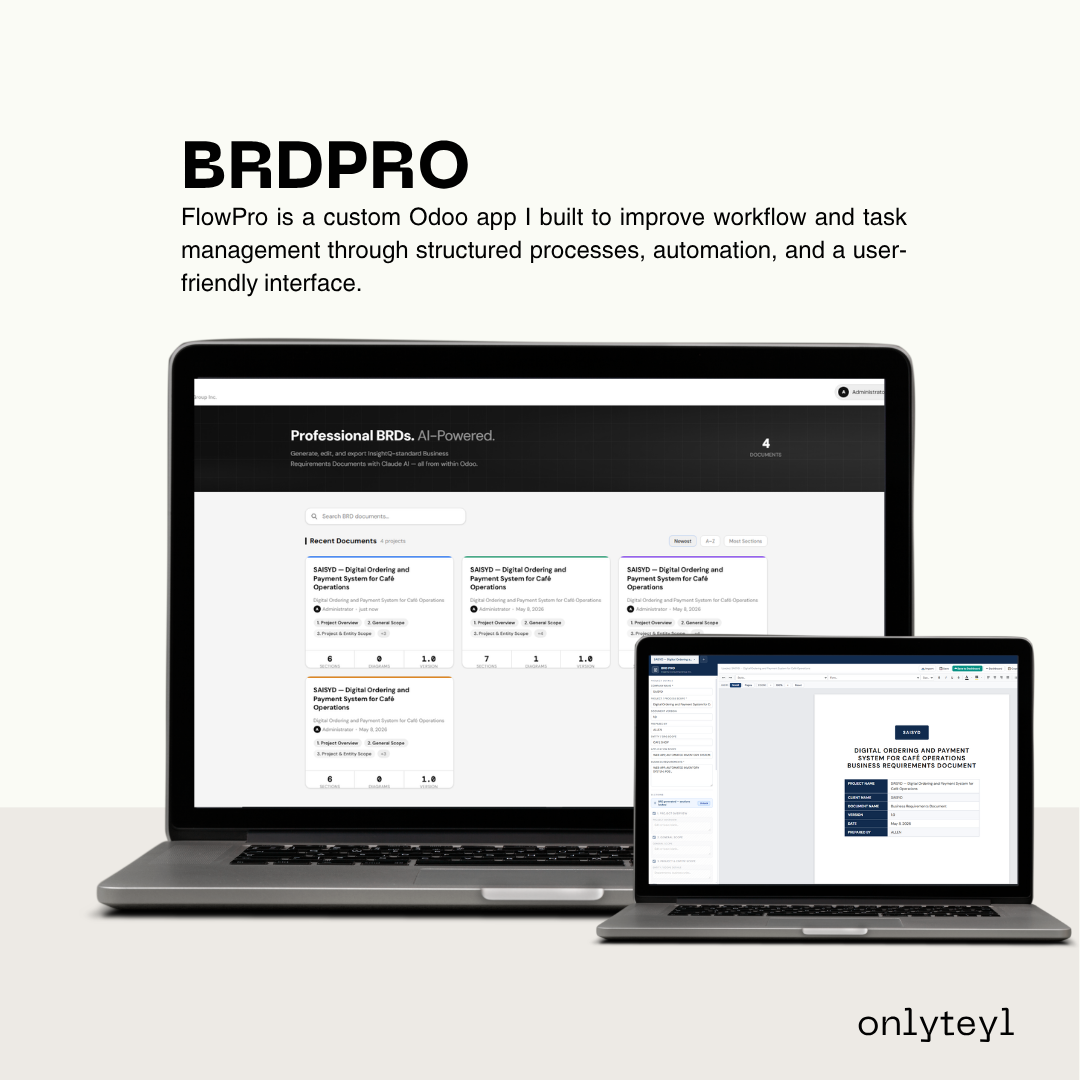
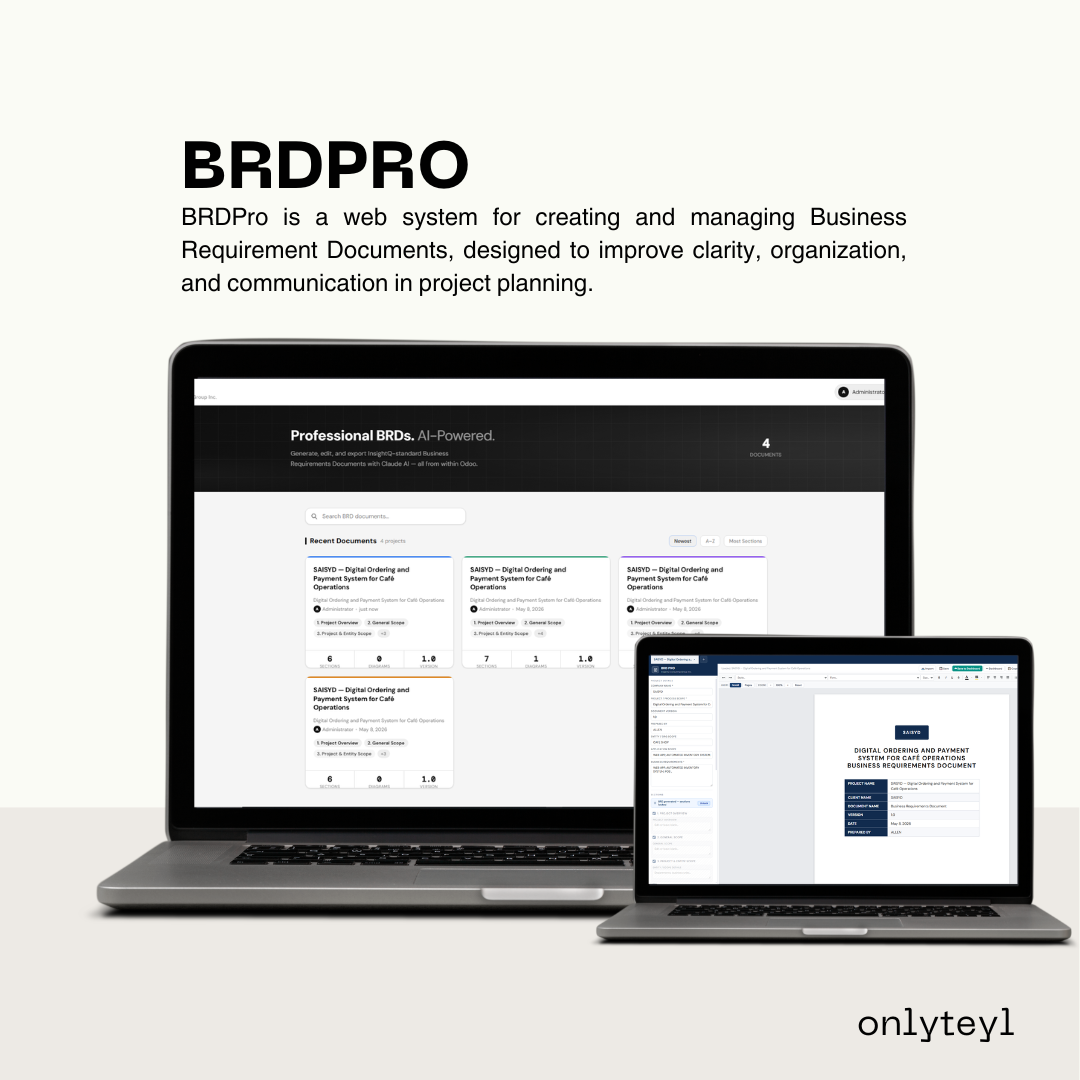
update img

Changed region(s): [[0.1528, 0.1833, 0.8556, 0.275]]

diff --git a/assets/js/index.js b/assets/js/index.js
@@ -257,7 +257,7 @@ const projectsData = [
     number: 6,
     image: "assets/img/project-img/brdpro5.png",
     images: [
-      "assets/img/project-img/brdpro.png", "assets/img/project-img/brdpro4.png", "assets/img/project-img/brdpro2.png",
+      "assets/img/project-img/brdpro.png", "assets/img/project-img/brdpro4.png", "assets/img/project-img/brdpro.png",
     ],
     title: "BRDPRO",
     short: "BRDPro is a web system for creating and managing Business Requirement Documents, designed to improve clarity, organization, and communication in project planning.",